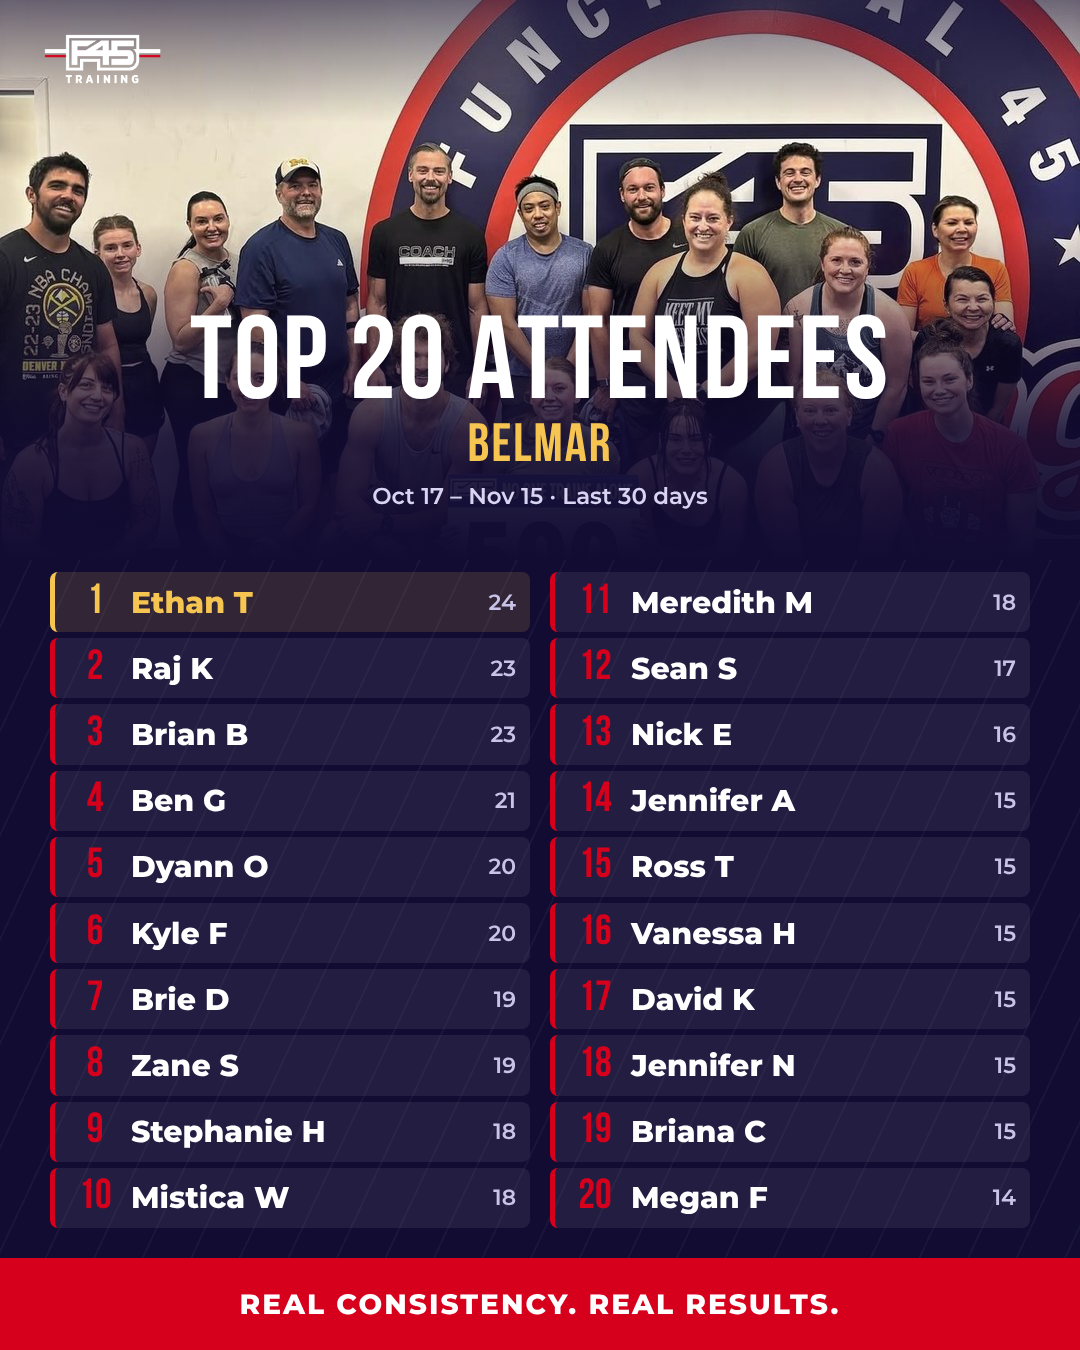
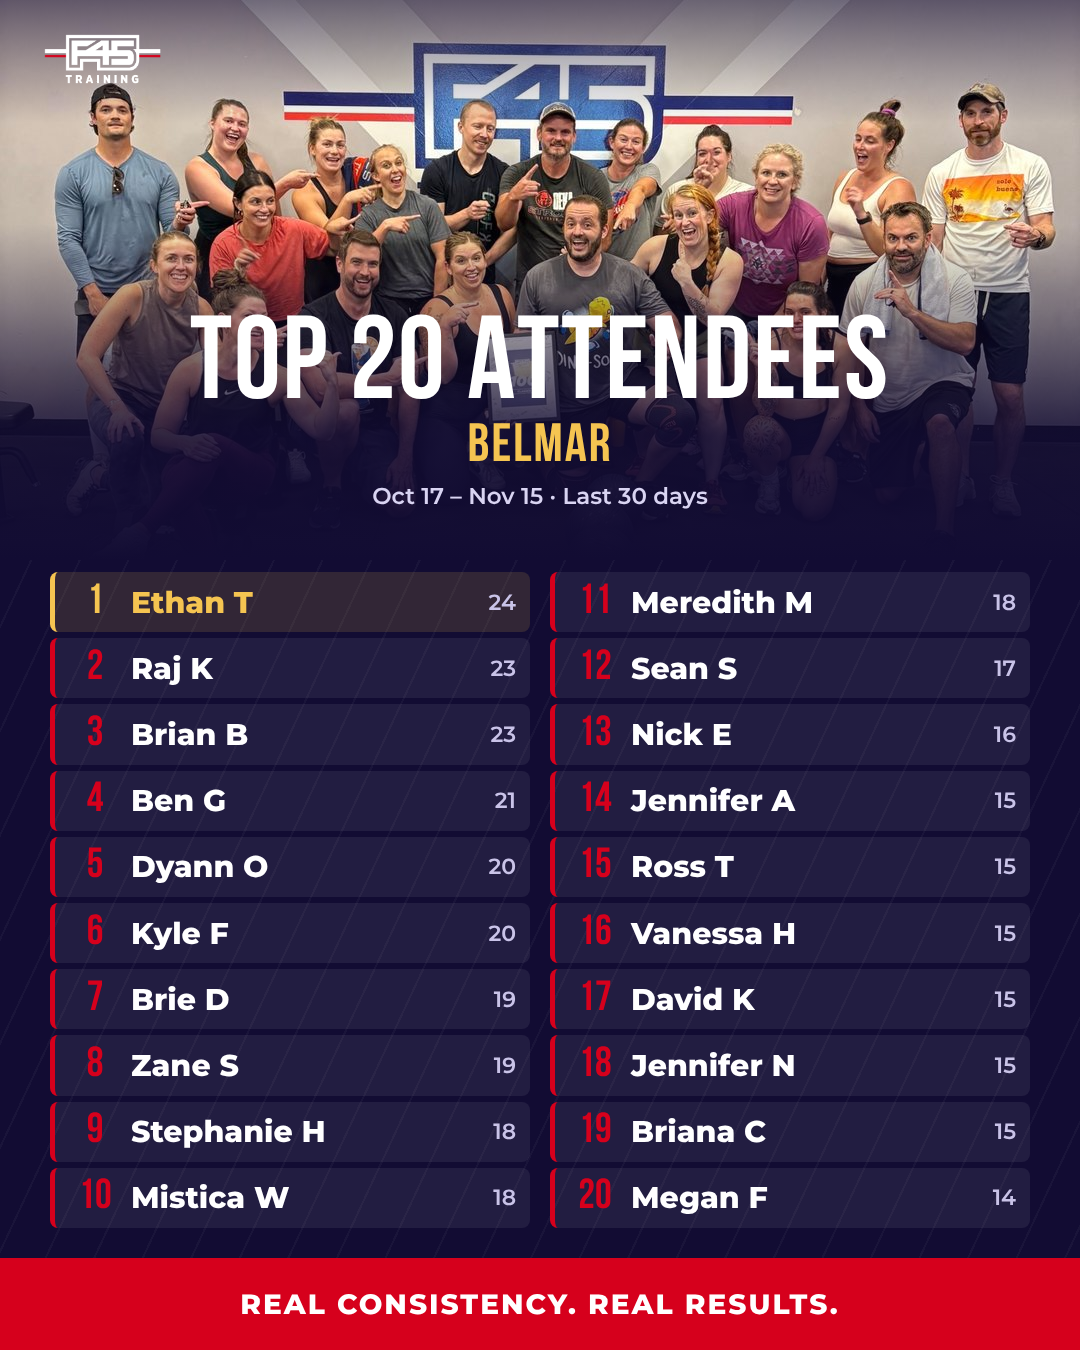
Belmar Top 20 attendees: use new group photo (billboard, IG feed, story)
Claude-Session: https://claude.ai/code/session_01YPXGFL3GFq73oSS2wm8C1T

Changed region(s): [[0.0, 0.0, 1.0, 0.3422], [0.1528, 0.6844, 0.1833, 0.7156]]

diff --git a/top-attendees-live/screen/belmar.html b/top-attendees-live/screen/belmar.html
@@ -5,6 +5,6 @@
 // Shows the slide only inside its window (America/Phoenix, UTC-7). After that: FALLBACK_URL if set, else a dark screen.
 var START=new Date("2026-11-16T00:00:00-07:00"),END=new Date("2026-11-26T00:00:00-07:00"),FALLBACK_IMG="../current/belmar_welcome.png?v=20261116";
 var n=new Date();
-if(n>=START&&n<END){document.getElementById("s").src="../current/belmar.png?v=20261116";}
+if(n>=START&&n<END){document.getElementById("s").src="../current/belmar.png?v=20261119";}
 else{document.getElementById("s").src=FALLBACK_IMG;}
 </script></body></html>
